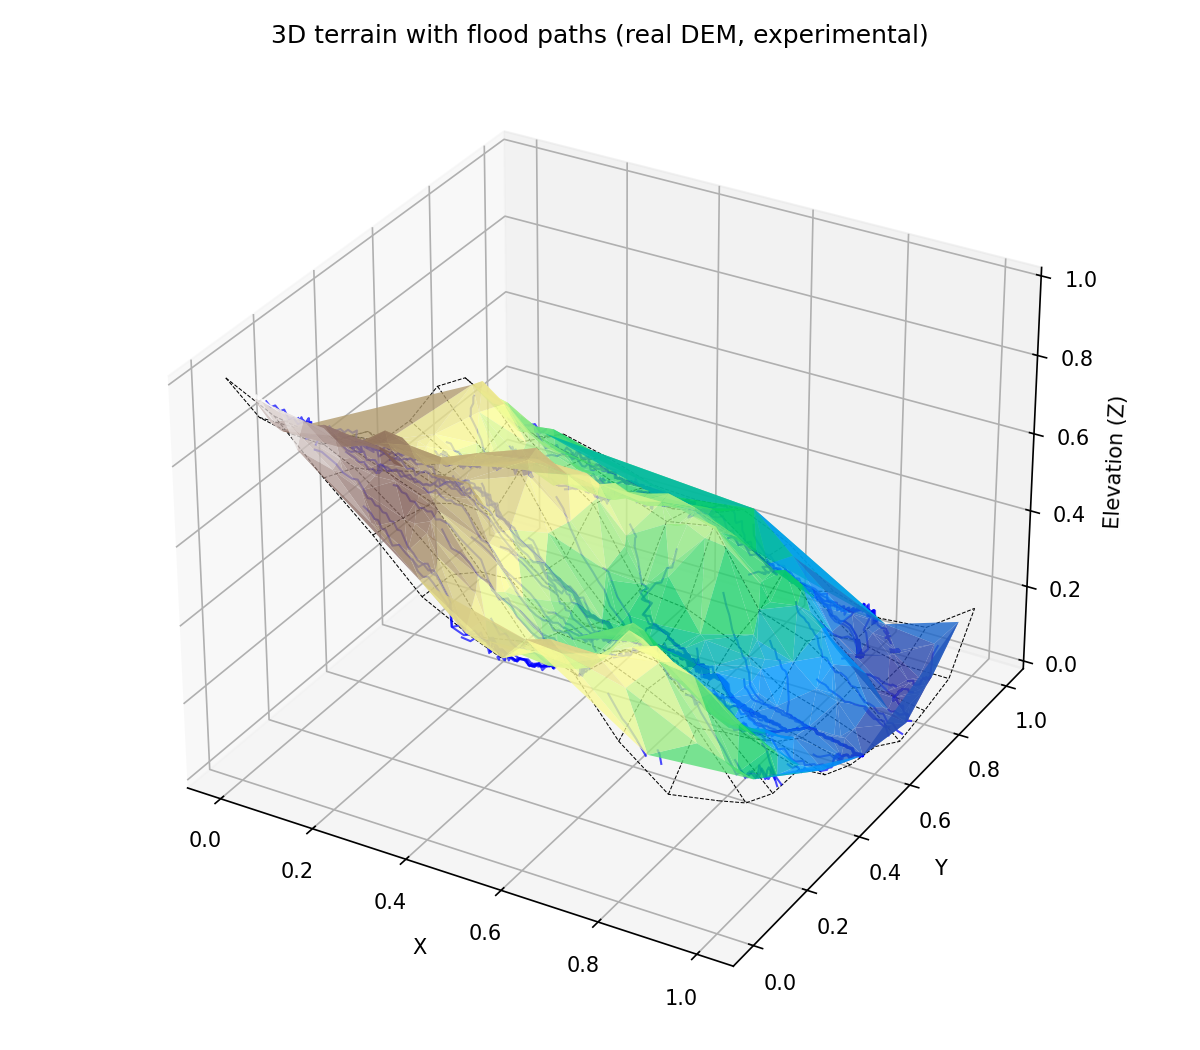
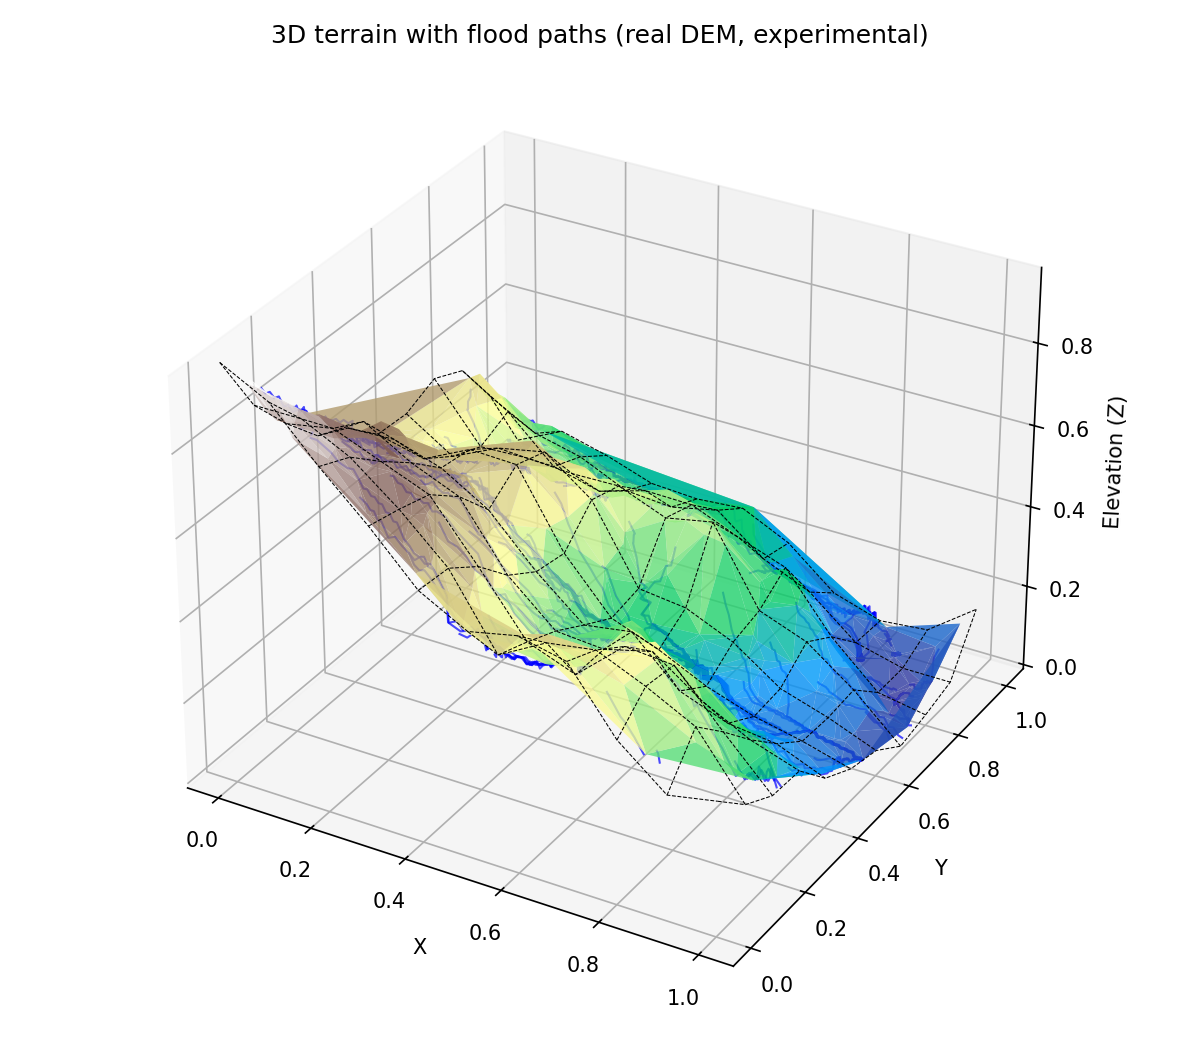
Keep 3D rotation responsive and add optional plotly HTML view (--html)

diff --git a/src/floodsim/plot.py b/src/floodsim/plot.py
@@ -5,6 +5,7 @@ from pathlib import Path
 import numpy as np
 import matplotlib
 import matplotlib.pyplot as plt
+from mpl_toolkits.mplot3d.art3d import Line3DCollection
 
 from .flow import UNIT_SQUARE, cell_edges
 
@@ -15,29 +16,65 @@ WATER_FIGURE = "water_volume.png"
 def plot_terrain_with_paths(ax, points, z, tri, height_fn, paths,
                             n_cells=10, boundary=UNIT_SQUARE,
                             title="3D terrain with flood paths"):
-    """Draw the triangulated surface, the grid overlay and the paths."""
-    ax.plot_trisurf(points[:, 0], points[:, 1], z, triangles=tri.simplices,
-                    cmap="terrain", edgecolor="none", alpha=0.8)
+    """Draw the triangulated surface, the grid overlay and the paths.
+
+    The grid lines and the paths are added as two ``Line3DCollection``
+    artists rather than one line per path, which keeps interactive
+    rotation of the figure responsive.
+    """
+    surface = ax.plot_trisurf(points[:, 0], points[:, 1], z,
+                              triangles=tri.simplices, cmap="terrain",
+                              edgecolor="none", alpha=0.8)
 
     x_edges, y_edges = cell_edges(n_cells, boundary)
     x_grid, y_grid = np.meshgrid(x_edges, y_edges)
     z_grid = height_fn(x_grid, y_grid)
-    for i in range(x_grid.shape[0]):
-        ax.plot(x_grid[i, :], y_grid[i, :], z_grid[i, :],
-                color="black", linestyle="--", linewidth=0.5)
-    for j in range(x_grid.shape[1]):
-        ax.plot(x_grid[:, j], y_grid[:, j], z_grid[:, j],
-                color="black", linestyle="--", linewidth=0.5)
+    grid_segments = [np.c_[x_grid[i], y_grid[i], z_grid[i]]
+                     for i in range(x_grid.shape[0])]
+    grid_segments += [np.c_[x_grid[:, j], y_grid[:, j], z_grid[:, j]]
+                      for j in range(x_grid.shape[1])]
+    ax.add_collection3d(Line3DCollection(
+        grid_segments, colors="black", linestyles="--", linewidths=0.5),
+        autolim=False)
 
-    for path in paths:
-        path_z = height_fn(path[:, 0], path[:, 1])
-        ax.plot(path[:, 0], path[:, 1], path_z,
-                color="blue", linewidth=1, alpha=0.7)
+    path_segments = [np.c_[path[:, 0], path[:, 1],
+                           height_fn(path[:, 0], path[:, 1])]
+                     for path in paths]
+    ax.add_collection3d(Line3DCollection(
+        path_segments, colors="blue", linewidths=1, alpha=0.7),
+        autolim=False)
 
     ax.set_xlabel("X")
     ax.set_ylabel("Y")
     ax.set_zlabel("Elevation (Z)")
     ax.set_title(title)
+    return surface
+
+
+def enable_fast_rotation(fig, ax, surface):
+    """Keep mouse rotation responsive by hiding the surface during a drag.
+
+    Matplotlib re-projects and re-sorts every triangle of the surface on
+    each mouse-move event, and redraws the 3D axes panes, ticks and grid
+    as well. On a Qt window that costs well over 200 ms per event for a
+    few hundred triangles, so dragging feels stuck. While a mouse button
+    is held only the grid overlay and the paths are drawn (about 20 ms
+    per event); the surface and the axes come back on release.
+    """
+    def on_press(event):
+        if event.inaxes is ax and surface.get_visible():
+            surface.set_visible(False)
+            ax.set_axis_off()
+            fig.canvas.draw_idle()
+
+    def on_release(event):
+        if not surface.get_visible():
+            surface.set_visible(True)
+            ax.set_axis_on()
+            fig.canvas.draw_idle()
+
+    fig.canvas.mpl_connect("button_press_event", on_press)
+    fig.canvas.mpl_connect("button_release_event", on_release)
 
 
 def plot_water_volume(ax, water, boundary=UNIT_SQUARE,
@@ -70,10 +107,10 @@ def save_figures(result, out_dir, show=False, label=None):
 
     fig1 = plt.figure(figsize=(8, 7))
     ax1 = fig1.add_subplot(111, projection="3d")
-    plot_terrain_with_paths(ax1, result.points, result.z, result.tri,
-                            result.height_fn, result.paths, result.n_cells,
-                            result.boundary,
-                            title="3D terrain with flood paths" + suffix)
+    surface = plot_terrain_with_paths(
+        ax1, result.points, result.z, result.tri, result.height_fn,
+        result.paths, result.n_cells, result.boundary,
+        title="3D terrain with flood paths" + suffix)
     fig1.tight_layout()
     terrain_path = out_dir / TERRAIN_FIGURE
     fig1.savefig(terrain_path, dpi=150)
@@ -86,6 +123,7 @@ def save_figures(result, out_dir, show=False, label=None):
     fig2.savefig(water_path, dpi=150)
 
     if show and matplotlib.get_backend().lower() != "agg":
+        enable_fast_rotation(fig1, ax1, surface)
         plt.show()
     plt.close(fig1)
     plt.close(fig2)

diff --git a/src/floodsim/interactive.py b/src/floodsim/interactive.py
@@ -1,0 +1,72 @@
+"""Optional interactive 3D view exported as an HTML file (needs plotly).
+
+Matplotlib renders 3D in software and re-projects every triangle on each
+mouse move, so rotating the terrain window is slow. This module writes the
+same scene to a self-contained HTML page rendered with WebGL, which stays
+smooth in any browser.
+"""
+
+from pathlib import Path
+
+import numpy as np
+
+from .flow import UNIT_SQUARE, cell_edges
+
+INTERACTIVE_FIGURE = "terrain_flood_paths.html"
+
+
+def _polyline_trace(go, segments, name, color, width, dash=None):
+    """One Scatter3d trace for many polylines, separated by None gaps."""
+    xs, ys, zs = [], [], []
+    for seg in segments:
+        xs += list(seg[:, 0]) + [None]
+        ys += list(seg[:, 1]) + [None]
+        zs += list(seg[:, 2]) + [None]
+    line = dict(color=color, width=width)
+    if dash:
+        line["dash"] = dash
+    return go.Scatter3d(x=xs, y=ys, z=zs, mode="lines", line=line,
+                        name=name, hoverinfo="skip")
+
+
+def save_interactive(result, out_dir, title="3D terrain with flood paths"):
+    """Write ``terrain_flood_paths.html`` for ``result`` and return its path."""
+    try:
+        import plotly.graph_objects as go
+    except ImportError as exc:  # pragma: no cover
+        raise ImportError("the interactive view needs plotly: "
+                          "pip install plotly") from exc
+
+    pts, z, tri = result.points, result.z, result.tri
+    simplices = tri.simplices
+    surface = go.Mesh3d(
+        x=pts[:, 0], y=pts[:, 1], z=z,
+        i=simplices[:, 0], j=simplices[:, 1], k=simplices[:, 2],
+        intensity=z, colorscale="Earth", opacity=0.9, name="terrain",
+        colorbar=dict(title="Elevation"), showscale=True, flatshading=True)
+
+    x_edges, y_edges = cell_edges(result.n_cells, result.boundary)
+    x_grid, y_grid = np.meshgrid(x_edges, y_edges)
+    z_grid = result.height_fn(x_grid, y_grid)
+    grid = [np.c_[x_grid[i], y_grid[i], z_grid[i]] for i in range(x_grid.shape[0])]
+    grid += [np.c_[x_grid[:, j], y_grid[:, j], z_grid[:, j]] for j in range(x_grid.shape[1])]
+    paths = [np.c_[p[:, 0], p[:, 1], result.height_fn(p[:, 0], p[:, 1])]
+             for p in result.paths]
+
+    fig = go.Figure([
+        surface,
+        _polyline_trace(go, grid, "grid", "black", 1.5, dash="dash"),
+        _polyline_trace(go, paths, "flood paths", "blue", 4),
+    ])
+    fig.update_layout(
+        title=title,
+        scene=dict(xaxis_title="X", yaxis_title="Y", zaxis_title="Elevation (Z)",
+                   aspectmode="cube"),
+        legend=dict(x=0.01, y=0.99),
+        margin=dict(l=0, r=0, t=40, b=0))
+
+    out_dir = Path(out_dir)
+    out_dir.mkdir(parents=True, exist_ok=True)
+    html_path = out_dir / INTERACTIVE_FIGURE
+    fig.write_html(html_path, include_plotlyjs="cdn")
+    return html_path

diff --git a/run.py b/run.py
@@ -31,6 +31,8 @@ def parse_args(argv=None):
                    help="directory for the PNG figures (default: docs/)")
     p.add_argument("--show", action="store_true",
                    help="also open the figures in a window")
+    p.add_argument("--html", action="store_true",
+                   help="also write an interactive 3D view as HTML (needs plotly)")
     return p.parse_args(argv)
 
 
@@ -48,6 +50,14 @@ def main(argv=None):
     print(f"wettest cell: column {ix}, row {iy} with {result.water.max():.0f} L")
     for f in files:
         print(f"saved {f}")
+    if args.html:
+        from floodsim.interactive import save_interactive
+        html_path = save_interactive(
+            result, args.out, title=f"3D terrain with flood paths ({args.terrain})")
+        print(f"saved {html_path}")
+        if args.show:
+            import webbrowser
+            webbrowser.open(html_path.resolve().as_uri())
 
 
 if __name__ == "__main__":

diff --git a/README.md b/README.md
@@ -46,7 +46,7 @@ python run.py --terrain ridges --points 800 --grid 20 --seed 7 --out output/ridg
 python run.py --terrain perlin --seed 3 --out output/perlin --show
 ```
 
-`--show` also opens the figures in a window. Run `python run.py --help` for all options.
+`--show` also opens the figures in a window. While you drag to rotate the 3D view only the grid and the paths are drawn, because Matplotlib re-projects every triangle on each mouse move; the surface and axes reappear when you release the button. For a fully rendered 3D view that rotates smoothly in the browser add `--html` (needs `pip install plotly==5.24.0`); it writes `terrain_flood_paths.html` next to the PNGs and, together with `--show`, opens it in your browser. Run `python run.py --help` for all options.
 
 **Experimental: real elevation data.** `examples/run_on_dem.py` crops a window from an SRTM GeoTIFF tile, normalises it to the unit square and runs the unchanged pipeline on it. It needs `rasterio` (`pip install rasterio==1.3.11`) and a tile downloaded from the USGS EarthExplorer or OpenTopography (SRTM 1 Arc-Second Global; tile N29E052 covers Shiraz). The default window is the Derak mountain north-west of Shiraz:
 
@@ -67,6 +67,7 @@ src/floodsim/terrain.py   the eight terrain functions and point sampling
 src/floodsim/mesh.py      Delaunay triangulation, per-triangle plane fit
 src/floodsim/flow.py      flood-path tracing, water accumulation on the grid
 src/floodsim/plot.py      3D terrain with paths, water heatmap (saved as PNG)
+src/floodsim/interactive.py  optional plotly export of the 3D view as HTML
 examples/run_on_dem.py    experimental run on a real SRTM tile
 docs/                     thesis.pdf and the generated figures
 ```
